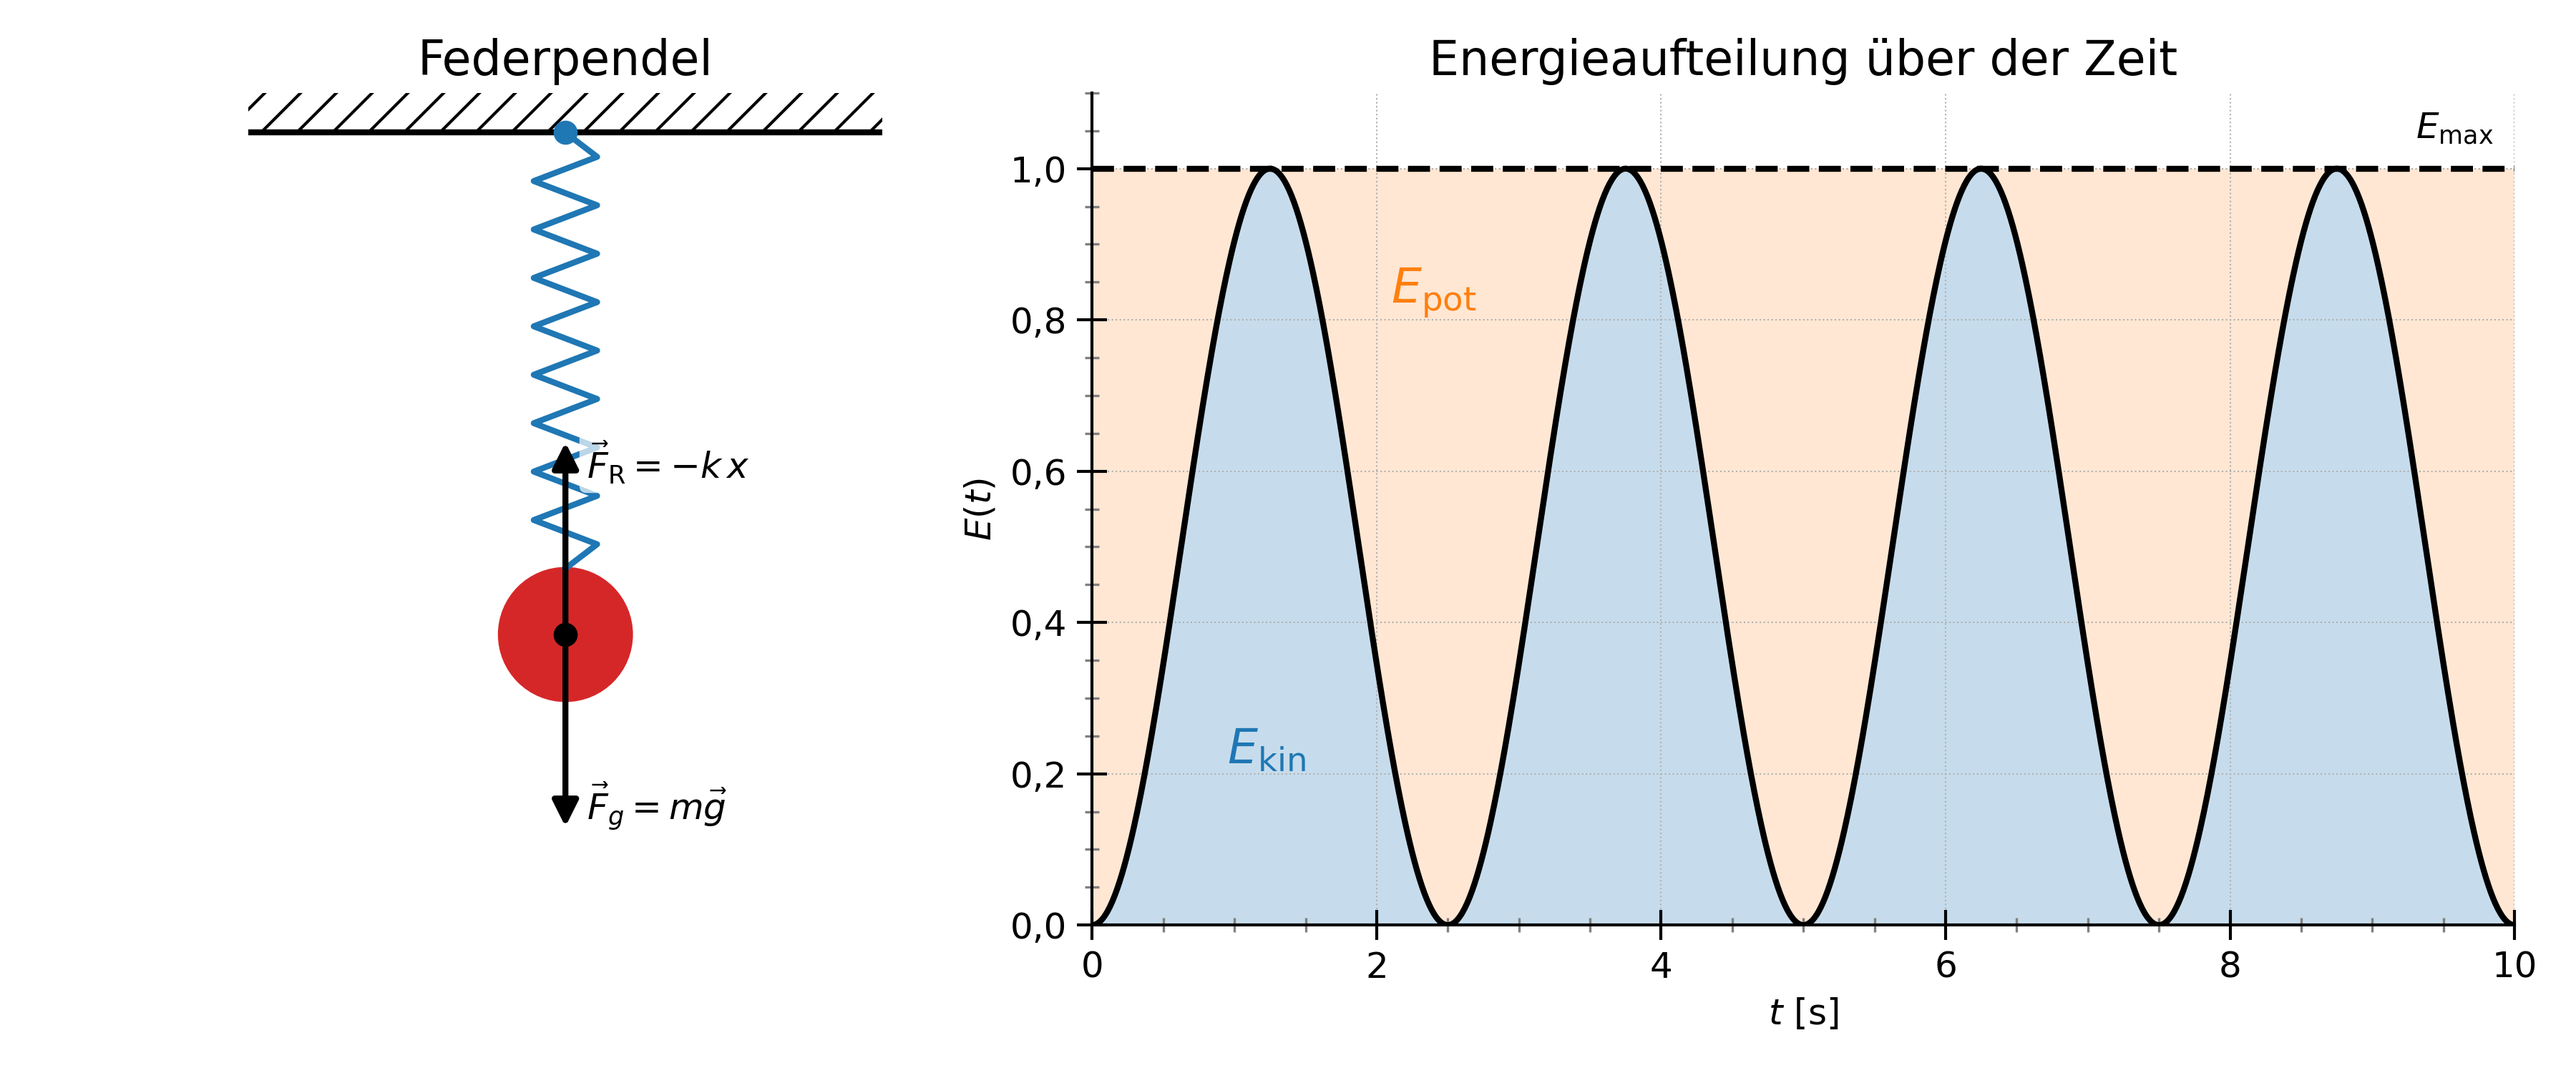
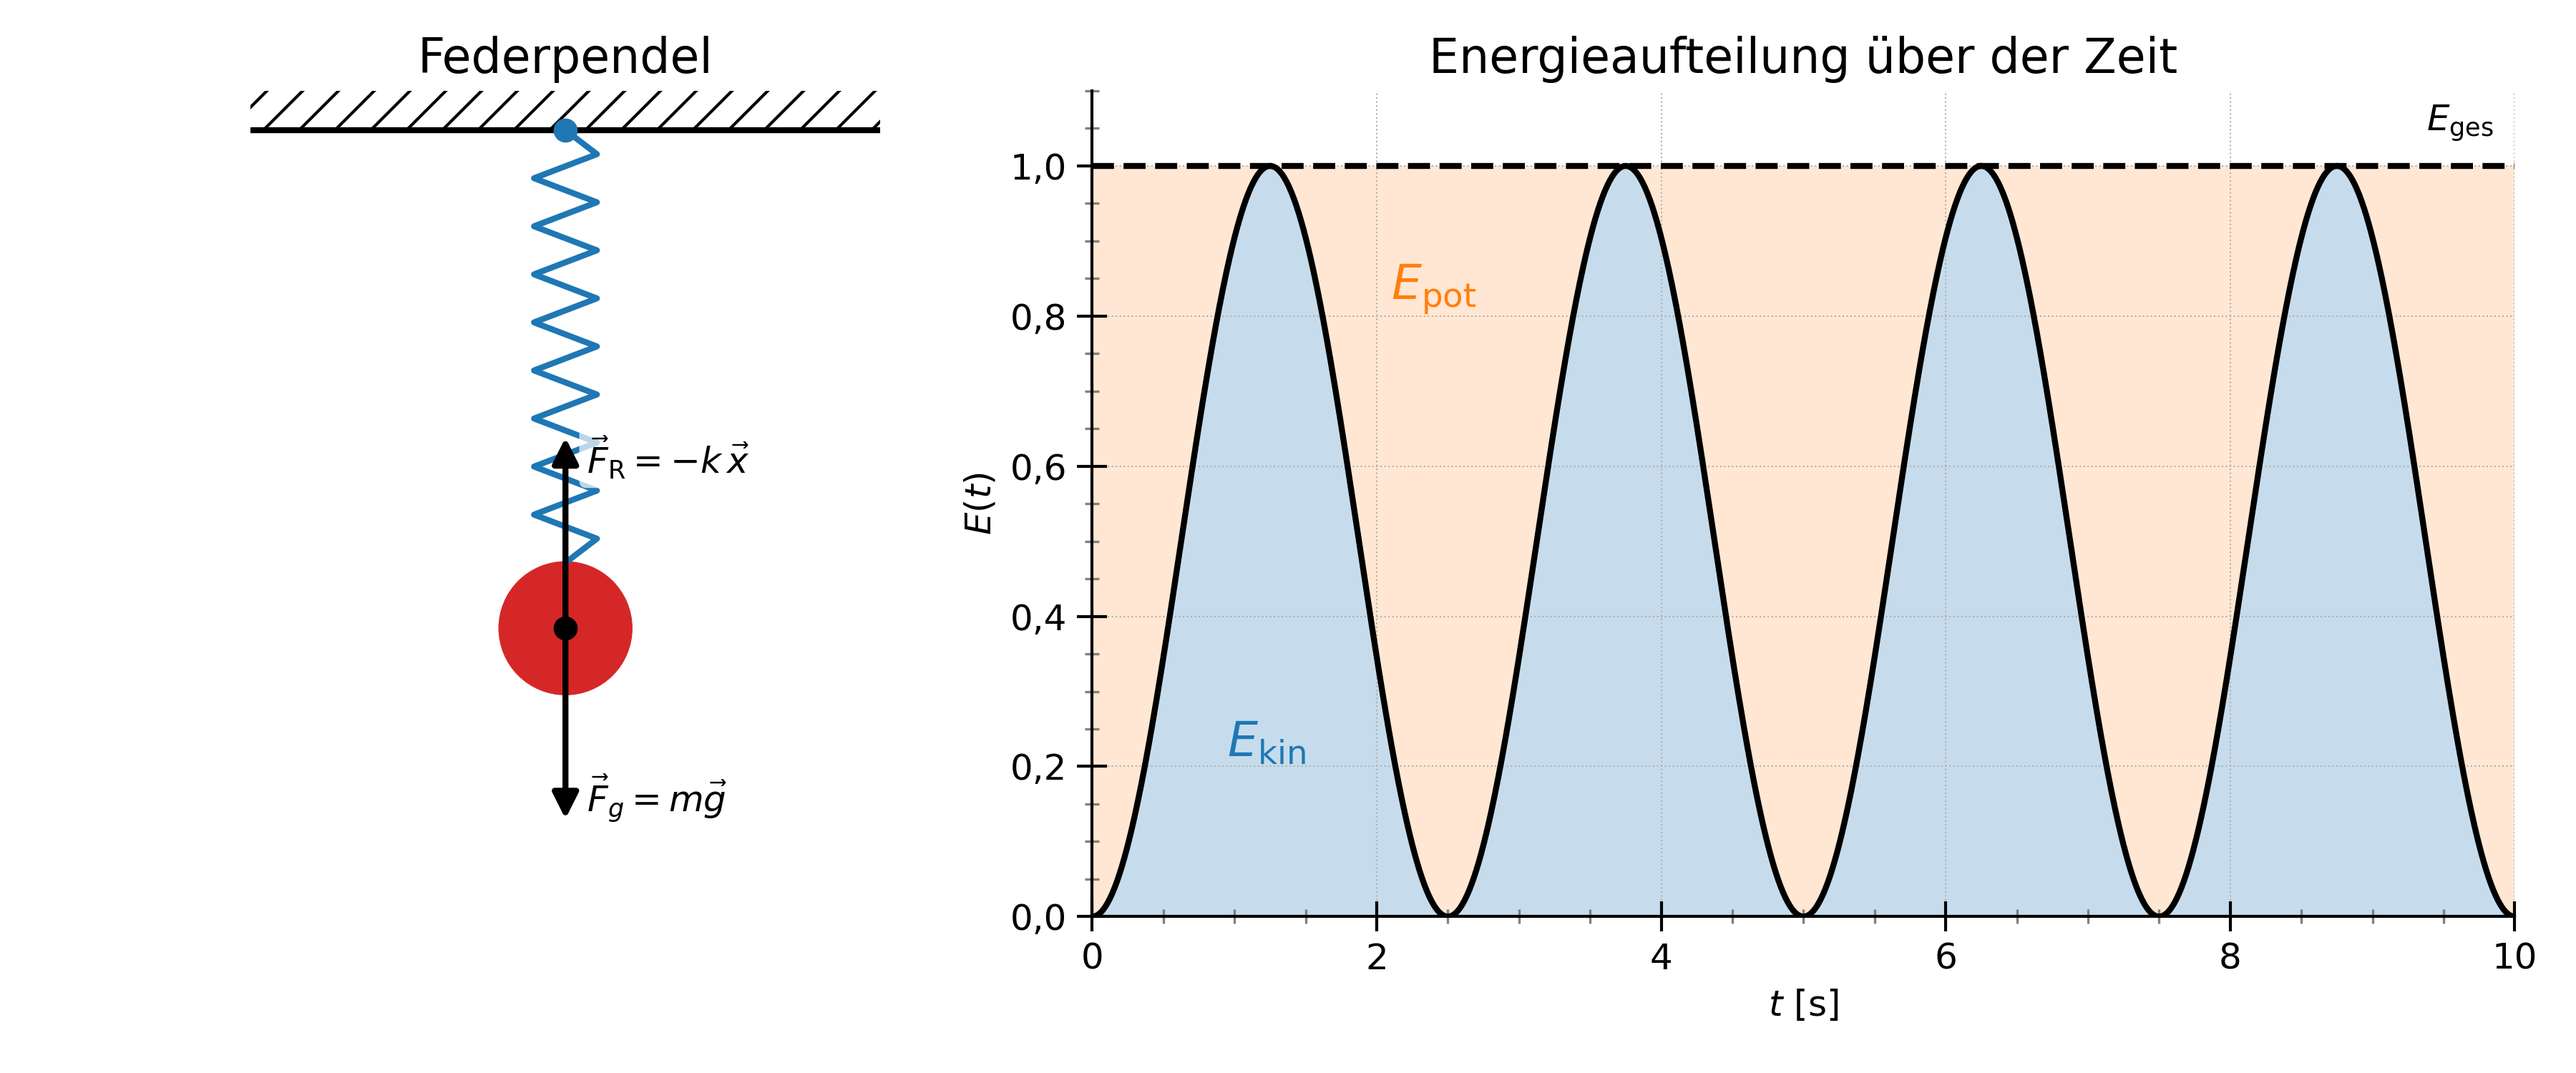
Add Lagrange mechanics content with energy visualization; include new plot for harmonic oscillator energy distribution and update index files.

diff --git a/source/mechanik/lagrange/plots/Energie_Federpendel.py b/source/mechanik/lagrange/plots/Energie_Federpendel.py
@@ -106,7 +106,7 @@ arrow_s = FancyArrowPatch(
 )
 axL.add_patch(arrow_s)
 axL.text(x + 0.08, y + 0.65,
-        r'$\vec{F}_\mathrm{R} = -k\,x$',
+        r'$\vec{F}_\mathrm{R} = -k\,\vec{x}$',
         va='center', color="black", fontsize=12,
         bbox=dict(
             facecolor='white',
@@ -140,7 +140,7 @@ axR.plot(t, E_kin, linewidth=2, color="black")
 
 # E_max als waagerechte Linie
 axR.axhline(E_max, linewidth=2, color="black", linestyle="--")
-axR.text(t[-1]*0.985, E_max + 0.03, r'$E_\mathrm{max}$', ha='right', va='bottom')
+axR.text(t[-1]*0.985, E_max + 0.03, r'$E_\mathrm{ges}$', ha='right', va='bottom')
 
 axR.text(2.7, 0.8, r'$E_\mathrm{pot}$', ha='right', va='bottom', color=ps.colors["orange"], fontsize=16)
 axR.text(1.5, 0.2, r'$E_\mathrm{kin}$', ha='right', va='bottom', color=ps.colors["blue"], fontsize=16)

diff --git a/source/dev/lagrange/index.md b/source/dev/lagrange/index.md
@@ -1,48 +1,10 @@
 # Lagrange-Mechanik
 
-In der bisherigen Mechanik haben wir die Bewegung physikalischer Systeme konsequent aus Kräften heraus beschrieben.
-Ausgehend von den Newtonschen Axiomen ließen sich Bewegungen berechnen, Impulse bilanzieren, Energieerhaltung formulieren und selbst komplexere Prozesse wie Stöße oder Rotationsbewegungen systematisch analysieren. Dieses kraftbasierte Weltbild ist erfolgreich, intuitiv und für viele Fragestellungen völlig ausreichend.
+```{admonition} Seite bereits live
+:class: hint
 
-Wenn wir uns jedoch den Energiefluss eines harmonischen Oszillators anschauen, so sehen wir, egal ob bei einem Federpendel, Fadenpendel (*für kleine Auslenkungen*) oder Torsionsoszillator stets dieselbe Struktur:
-
-```{figure} ../../_static/plots/mechanik/lagrange/Energie_Federpendel.png
-:align: center
-:width: 100%
-
-Energie eines Federpendels
+Index-Seite bereits live
 ```
-
-Die kinetische und die potenzielle Energie wandeln sich periodisch ineinander um. Während die Gesamtenergie konstant bleibt, oszilliert ihre Aufteilung im Takt der Bewegung.
-
-Diese Beobachtung ist bemerkenswert. Denn sie legt nahe, dass die Dynamik des Systems bereits in seiner Energie enthalten ist.\
-Wenn die Energie eines Systems seine zeitliche Entwicklung so klar widerspiegelt, warum sollte man dann nicht versuchen, die Bewegungsgleichung direkt aus einem Energieprinzip zu gewinnen?
-
----
-
-**In der Newtonschen Mechanik lautet die zentrale Frage:**
-
->Welche Kräfte wirken auf das System, und welche Beschleunigung folgt daraus?
-
-**Die Lagrange-Mechanik stellt stattdessen eine andere, tiefere Frage:**
-
->Welche Struktur besitzt das System, und welche Bewegung ist mit dieser Struktur vereinbar?
-
-Die klassische Mechanik entstand zunächst als **Kraftlehre**. In den Principia formulierte **Isaac Newton** eine Dynamik, in der Kräfte die Ursache jeder Bewegung sind. Dieses Bild erwies sich als außerordentlich erfolgreich und prägt unser physikalisches Denken bis heute. Doch bereits im 18. Jahrhundert zeigte sich, dass viele Probleme der Mechanik, insbesondere solche mit Zwangsbedingungen oder gekoppelten Bewegungen, zwar prinzipiell lösbar, aber praktisch schwer handhabbar waren.
-
-Vor diesem Hintergrund entwickelte **Joseph-Louis Lagrange** eine alternative Formulierung der Mechanik. Sein Ziel war nicht, Newton zu widerlegen, sondern die Mechanik von ihren geometrischen und koordinatenabhängigen Details zu befreien. An die Stelle einzelner Kraftgleichungen trat ein skalärer Ausdruck, der die gesamte Dynamik eines Systems kodiert. Bewegung erschien nun nicht mehr als unmittelbare Folge einzelner Kräfte, sondern als Konsequenz der **strukturellen Eigenschaften des Systems**.
-
-Bemerkenswert ist dabei, dass dieser neue Zugang zunächst keinen zusätzlichen physikalischen Inhalt einführte. Die Lagrange-Mechanik ist der Newtonschen Mechanik vollständig äquivalent. Ihr Vorteil liegt nicht in neuen Vorhersagen, sondern in einer neuen Organisation der Physik:\
-**komplexe Zusammenhänge werden sichtbar, bevor sie ausgerechnet werden**.
-
-Gerade der Oszillator macht diesen Perspektivwechsel besonders anschaulich. Was in der Newtonschen Mechanik als Resultat einer Rückstellkraft erscheint, lässt sich hier als unmittelbare Folge der Energieform des Systems verstehen. Die Bewegungsgleichung ist nicht mehr der Ausgangspunkt der Analyse, sondern ihr Ergebnis.
-
----
-
-Ziel dieses Kapitels ist es, den Übergang von der Newtonschen zur Lagrangeschen Mechanik schrittweise und nachvollziehbar zu vollziehen. Ausgangspunkt bildet dabei der **Oszillator** als ein aus der Newtonschen Mechanik vertrautes und gut verstandenes System. An ihm lässt sich exemplarisch zeigen, dass die Bewegung eines Systems nicht zwangsläufig aus einer detaillierten Betrachtung der wirkenden Kräfte hervorgehen muss, sondern ebenso aus einem **Energieansatz** gewonnen werden kann.
-
-Auf dieser Grundlage wird die Bewegungsgleichung des Systems nicht mehr als Ausgangspunkt der Analyse vorausgesetzt, sondern als **Ergebnis eines übergeordneten Prinzips** verstanden. Die dabei zentrale Rolle spielende **Euler–Lagrange-Gleichung** wird als fundamentales Werkzeug der Lagrange-Mechanik eingeführt.
-
-Anhand einfacher Systeme wird anschließend deutlich, dass der neue Formalismus zunächst nicht zwingend zu einer Vereinfachung der Rechnung führt. Erst bei gekoppelten Systemen und bei Bewegungen unter Zwangsbedingungen tritt die strukturelle Stärke dieses Zugangs klar hervor und macht verständlich, warum sich die Lagrange-Mechanik als grundlegendes Werkzeug der theoretischen Physik etabliert hat.
 
 ```{toctree}
 :maxdepth: 1

diff --git a/source/mechanik/lagrange/index.md b/source/mechanik/lagrange/index.md
@@ -1,0 +1,43 @@
+# Lagrange-Mechanik
+
+In der bisherigen Mechanik haben wir die Bewegung physikalischer Systeme konsequent aus Kräften heraus beschrieben.
+Ausgehend von den Newtonschen Axiomen ließen sich Bewegungen berechnen, Impulse bilanzieren, Energieerhaltung formulieren und selbst komplexere Prozesse wie Stöße oder Rotationsbewegungen systematisch analysieren. Dieses kraftbasierte Weltbild ist erfolgreich, intuitiv und für viele Fragestellungen völlig ausreichend.
+
+Wenn wir uns jedoch den Energiefluss eines harmonischen Oszillators anschauen, so sehen wir, egal ob bei einem Federpendel, Fadenpendel (*für kleine Auslenkungen*) oder Torsionsoszillator stets dieselbe Struktur:
+
+```{figure} ../../_static/plots/mechanik/lagrange/Energie_Federpendel.png
+:align: center
+:width: 100%
+
+Energie eines Federpendels
+```
+
+Die kinetische und die potenzielle Energie wandeln sich periodisch ineinander um. Während die Gesamtenergie konstant bleibt, oszilliert ihre Aufteilung im Takt der Bewegung.
+
+Diese Beobachtung ist bemerkenswert. Denn sie legt nahe, dass die Dynamik des Systems bereits in seiner Energie enthalten ist.\
+Wenn die Energie eines Systems seine zeitliche Entwicklung so klar widerspiegelt, warum sollte man dann nicht versuchen, die Bewegungsgleichung direkt aus einem Energieprinzip zu gewinnen?
+
+---
+
+**In der Newtonschen Mechanik lautet die zentrale Frage:**\
+Welche Kräfte wirken auf das System, und welche Beschleunigung folgt daraus?
+
+**Die Lagrange-Mechanik stellt stattdessen eine andere, tiefere Frage:**\
+Welche Struktur besitzt das System, und welche Bewegung ist mit dieser Struktur vereinbar?
+
+Die klassische Mechanik entstand zunächst als **Kraftlehre**. In den Principia formulierte **Isaac Newton** eine Dynamik, in der Kräfte die Ursache jeder Bewegung sind. Dieses Bild erwies sich als außerordentlich erfolgreich und prägt unser physikalisches Denken bis heute. Doch bereits im 18. Jahrhundert zeigte sich, dass viele Probleme der Mechanik, insbesondere solche mit Zwangsbedingungen oder gekoppelten Bewegungen, zwar prinzipiell lösbar, aber praktisch schwer handhabbar waren.
+
+Vor diesem Hintergrund entwickelte **Joseph-Louis Lagrange** eine alternative Formulierung der Mechanik. Sein Ziel war nicht, Newton zu widerlegen, sondern die Mechanik von ihren geometrischen und koordinatenabhängigen Details zu befreien. An die Stelle einzelner Kraftgleichungen trat ein skalärer Ausdruck, der die gesamte Dynamik eines Systems kodiert. Bewegung erschien nun nicht mehr als unmittelbare Folge einzelner Kräfte, sondern als Konsequenz der **strukturellen Eigenschaften des Systems**.
+
+Bemerkenswert ist dabei, dass dieser neue Zugang zunächst keinen zusätzlichen physikalischen Inhalt einführte. Die Lagrange-Mechanik ist der Newtonschen Mechanik vollständig äquivalent. Ihr Vorteil liegt nicht in neuen Vorhersagen, sondern in einer neuen Organisation der Physik:\
+**komplexe Zusammenhänge werden sichtbar, bevor sie ausgerechnet werden**.
+
+Gerade der Oszillator macht diesen Perspektivwechsel besonders anschaulich. Was in der Newtonschen Mechanik als Resultat einer Rückstellkraft erscheint, lässt sich hier als unmittelbare Folge der Energieform des Systems verstehen. Die Bewegungsgleichung ist nicht mehr der Ausgangspunkt der Analyse, sondern ihr Ergebnis.
+
+---
+
+Ziel dieses Kapitels ist es, den Übergang von der Newtonschen zur Lagrangeschen Mechanik schrittweise und nachvollziehbar zu vollziehen. Ausgangspunkt bildet dabei der **Oszillator** als ein aus der Newtonschen Mechanik vertrautes und gut verstandenes System. An ihm lässt sich exemplarisch zeigen, dass die Bewegung eines Systems nicht zwangsläufig aus einer detaillierten Betrachtung der wirkenden Kräfte hervorgehen muss, sondern ebenso aus einem **Energieansatz** gewonnen werden kann.
+
+Auf dieser Grundlage wird die Bewegungsgleichung des Systems nicht mehr als Ausgangspunkt der Analyse vorausgesetzt, sondern als **Ergebnis eines übergeordneten Prinzips** verstanden. Die dabei zentrale Rolle spielende **Euler–Lagrange-Gleichung** wird als fundamentales Werkzeug der Lagrange-Mechanik eingeführt.
+
+Anhand einfacher Systeme wird anschließend deutlich, dass der neue Formalismus zunächst nicht zwingend zu einer Vereinfachung der Rechnung führt. Erst bei gekoppelten Systemen und bei Bewegungen unter Zwangsbedingungen tritt die strukturelle Stärke dieses Zugangs klar hervor und macht verständlich, warum sich die Lagrange-Mechanik als grundlegendes Werkzeug der theoretischen Physik etabliert hat.

diff --git a/source/mechanik/index.md b/source/mechanik/index.md
@@ -24,3 +24,10 @@ Denn jede Schwingung, so komplex sie später auch werden mag, beginnt mit den kl
 Diese scheinbar einfachen Größen bilden das Fundament, auf dem sämtliche Modelle der Mechanik aufbauen. Erst wenn wir präzise formulieren können, wie sich etwas bewegt, können wir verstehen, warum es sich bewegt.
 
 Damit ist der Weg bereitet: Wir starten mit den Grundlagen der Bewegung, bevor wir uns Stück für Stück zum harmonischen Oszillator vorarbeiten und von dort aus die Phänomene der Welt verstehen.
+
+```{toctree}
+:maxdepth: 1
+:caption: Inhaltsverzeichnis
+
+lagrange/index
+```
